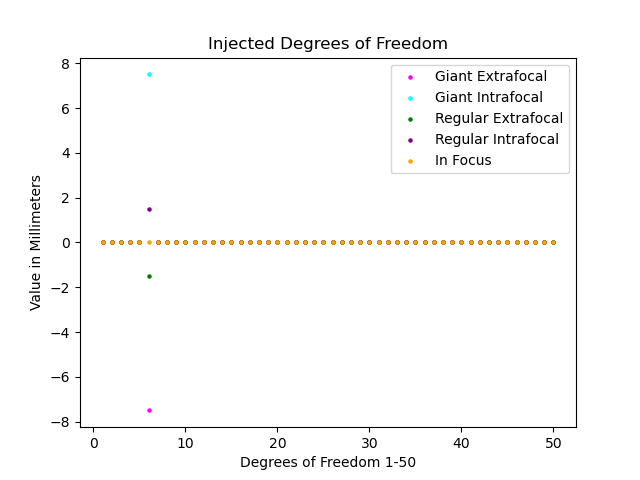
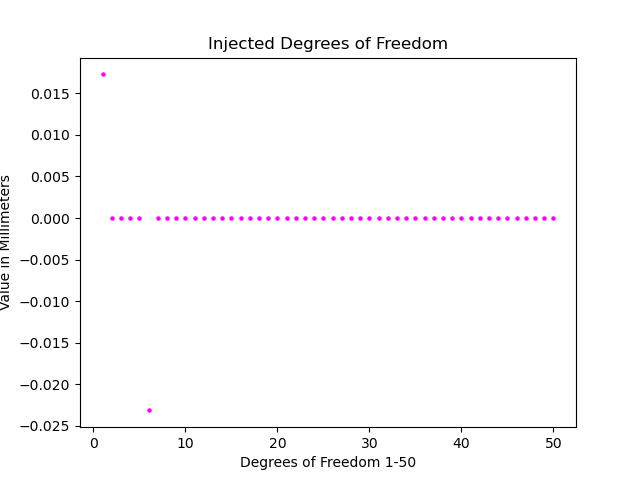
update injected dof

diff --git a/.ipynb_checkpoints/index-checkpoint.rst b/.ipynb_checkpoints/index-checkpoint.rst
@@ -84,7 +84,7 @@ Due to the size of the giant donuts used in this test, generated at a defocus of
     *Cutout of a regular intrafocal donut in the u-band, on detector 002 at a zenith angle of 0.0 degrees.*
 
 
-Donuts like these, depcited in Figures 2 and 3, are an example of what would be passed through the WEP and OFC algorithms to generate the following results. 
+Donuts like these, depcited in Figures 2 and 3, are an example of what would be passed through the WEP and OFC algorithms to generate the following results. The standard deviation of the intensity is 25.74 electrons per pixel for the giant donut and 41.97 electrons per pixel for the regular donut. This result confirms that there is a much higher signal-to-noise ratio for the regular donuts. 
 
 
 
@@ -106,8 +106,14 @@ At this time, there is an unidentified issue with the wavefront estimation pipel
 
 In Figure 4, the spike for the defocus is clear on all six subplots. It is more pronounced for the giant donuts than the regular donuts, but still affects the regular donuts. More clearly for the regular donuts than the giant donuts, there appears to be some correlation with the offset to the filter. For example, in the u-band, the offset is consistently smaller than the other bands. Despite being less noticeable in the giant donuts, they follow the same pattern. 
 
+Simulating donuts with an atmospheric point spread function (PSF) should affect the zernike corresponding to defocus by making the donuts appear larger, however this effect would cause the largest offset in the u-band moving to the y-band, not the other way around. 
+
+
+
 Optical State Estimation Results
 --------------------------------
+
+
 
 Conversely to the wavefront estimation results, the filters with the biggest offset in the WEP have the smallest offset in the OFC. 
 
@@ -120,6 +126,12 @@ Conversely to the wavefront estimation results, the filters with the biggest off
     :align: center
 
     *Degrees of freedom estimation for giant and regular donuts at all zenith angles, corresponding to the optical state of the telescope.*
+
+
+There are fifty degrees of freedom for the telescope system. The first ten correspond to the hexapods for the M2 mirror and the camera. The other forty are for the bending modes of the M1M3 monolith. The simulations here primarily affect the hexapod degrees of freedom, and the bending modes stay very stable. The giant donuts see a significant offset for the sixth degree of freedom, corresponding to camera dz, or defocus. This is to be expected if the error from the WEP is propogating through when the zernike arrays are then passed to the OFC. However, the regular donuts also show an offset for the first degree of freedom, which corresponds to the M2 dz, or defocus of the secondary mirror in addition to the camera. 
+
+
+
 
 
 

diff --git a/index.rst b/index.rst
@@ -84,7 +84,7 @@ Due to the size of the giant donuts used in this test, generated at a defocus of
     *Cutout of a regular intrafocal donut in the u-band, on detector 002 at a zenith angle of 0.0 degrees.*
 
 
-Donuts like these, depcited in Figures 2 and 3, are an example of what would be passed through the WEP and OFC algorithms to generate the following results. 
+Donuts like these, depcited in Figures 2 and 3, are an example of what would be passed through the WEP and OFC algorithms to generate the following results. The standard deviation of the intensity is 25.74 electrons per pixel for the giant donut and 41.97 electrons per pixel for the regular donut. This result confirms that there is a much higher signal-to-noise ratio for the regular donuts. 
 
 
 
@@ -106,8 +106,14 @@ At this time, there is an unidentified issue with the wavefront estimation pipel
 
 In Figure 4, the spike for the defocus is clear on all six subplots. It is more pronounced for the giant donuts than the regular donuts, but still affects the regular donuts. More clearly for the regular donuts than the giant donuts, there appears to be some correlation with the offset to the filter. For example, in the u-band, the offset is consistently smaller than the other bands. Despite being less noticeable in the giant donuts, they follow the same pattern. 
 
+Simulating donuts with an atmospheric point spread function (PSF) should affect the zernike corresponding to defocus by making the donuts appear larger, however this effect would cause the largest offset in the u-band moving to the y-band, not the other way around. 
+
+
+
 Optical State Estimation Results
 --------------------------------
+
+
 
 Conversely to the wavefront estimation results, the filters with the biggest offset in the WEP have the smallest offset in the OFC. 
 
@@ -120,6 +126,12 @@ Conversely to the wavefront estimation results, the filters with the biggest off
     :align: center
 
     *Degrees of freedom estimation for giant and regular donuts at all zenith angles, corresponding to the optical state of the telescope.*
+
+
+There are fifty degrees of freedom for the telescope system. The first ten correspond to the hexapods for the M2 mirror and the camera. The other forty are for the bending modes of the M1M3 monolith. The simulations here primarily affect the hexapod degrees of freedom, and the bending modes stay very stable. The giant donuts see a significant offset for the sixth degree of freedom, corresponding to camera dz, or defocus. This is to be expected if the error from the WEP is propogating through when the zernike arrays are then passed to the OFC. However, the regular donuts also show an offset for the first degree of freedom, which corresponds to the M2 dz, or defocus of the secondary mirror in addition to the camera. 
+
+
+
 
 
 
